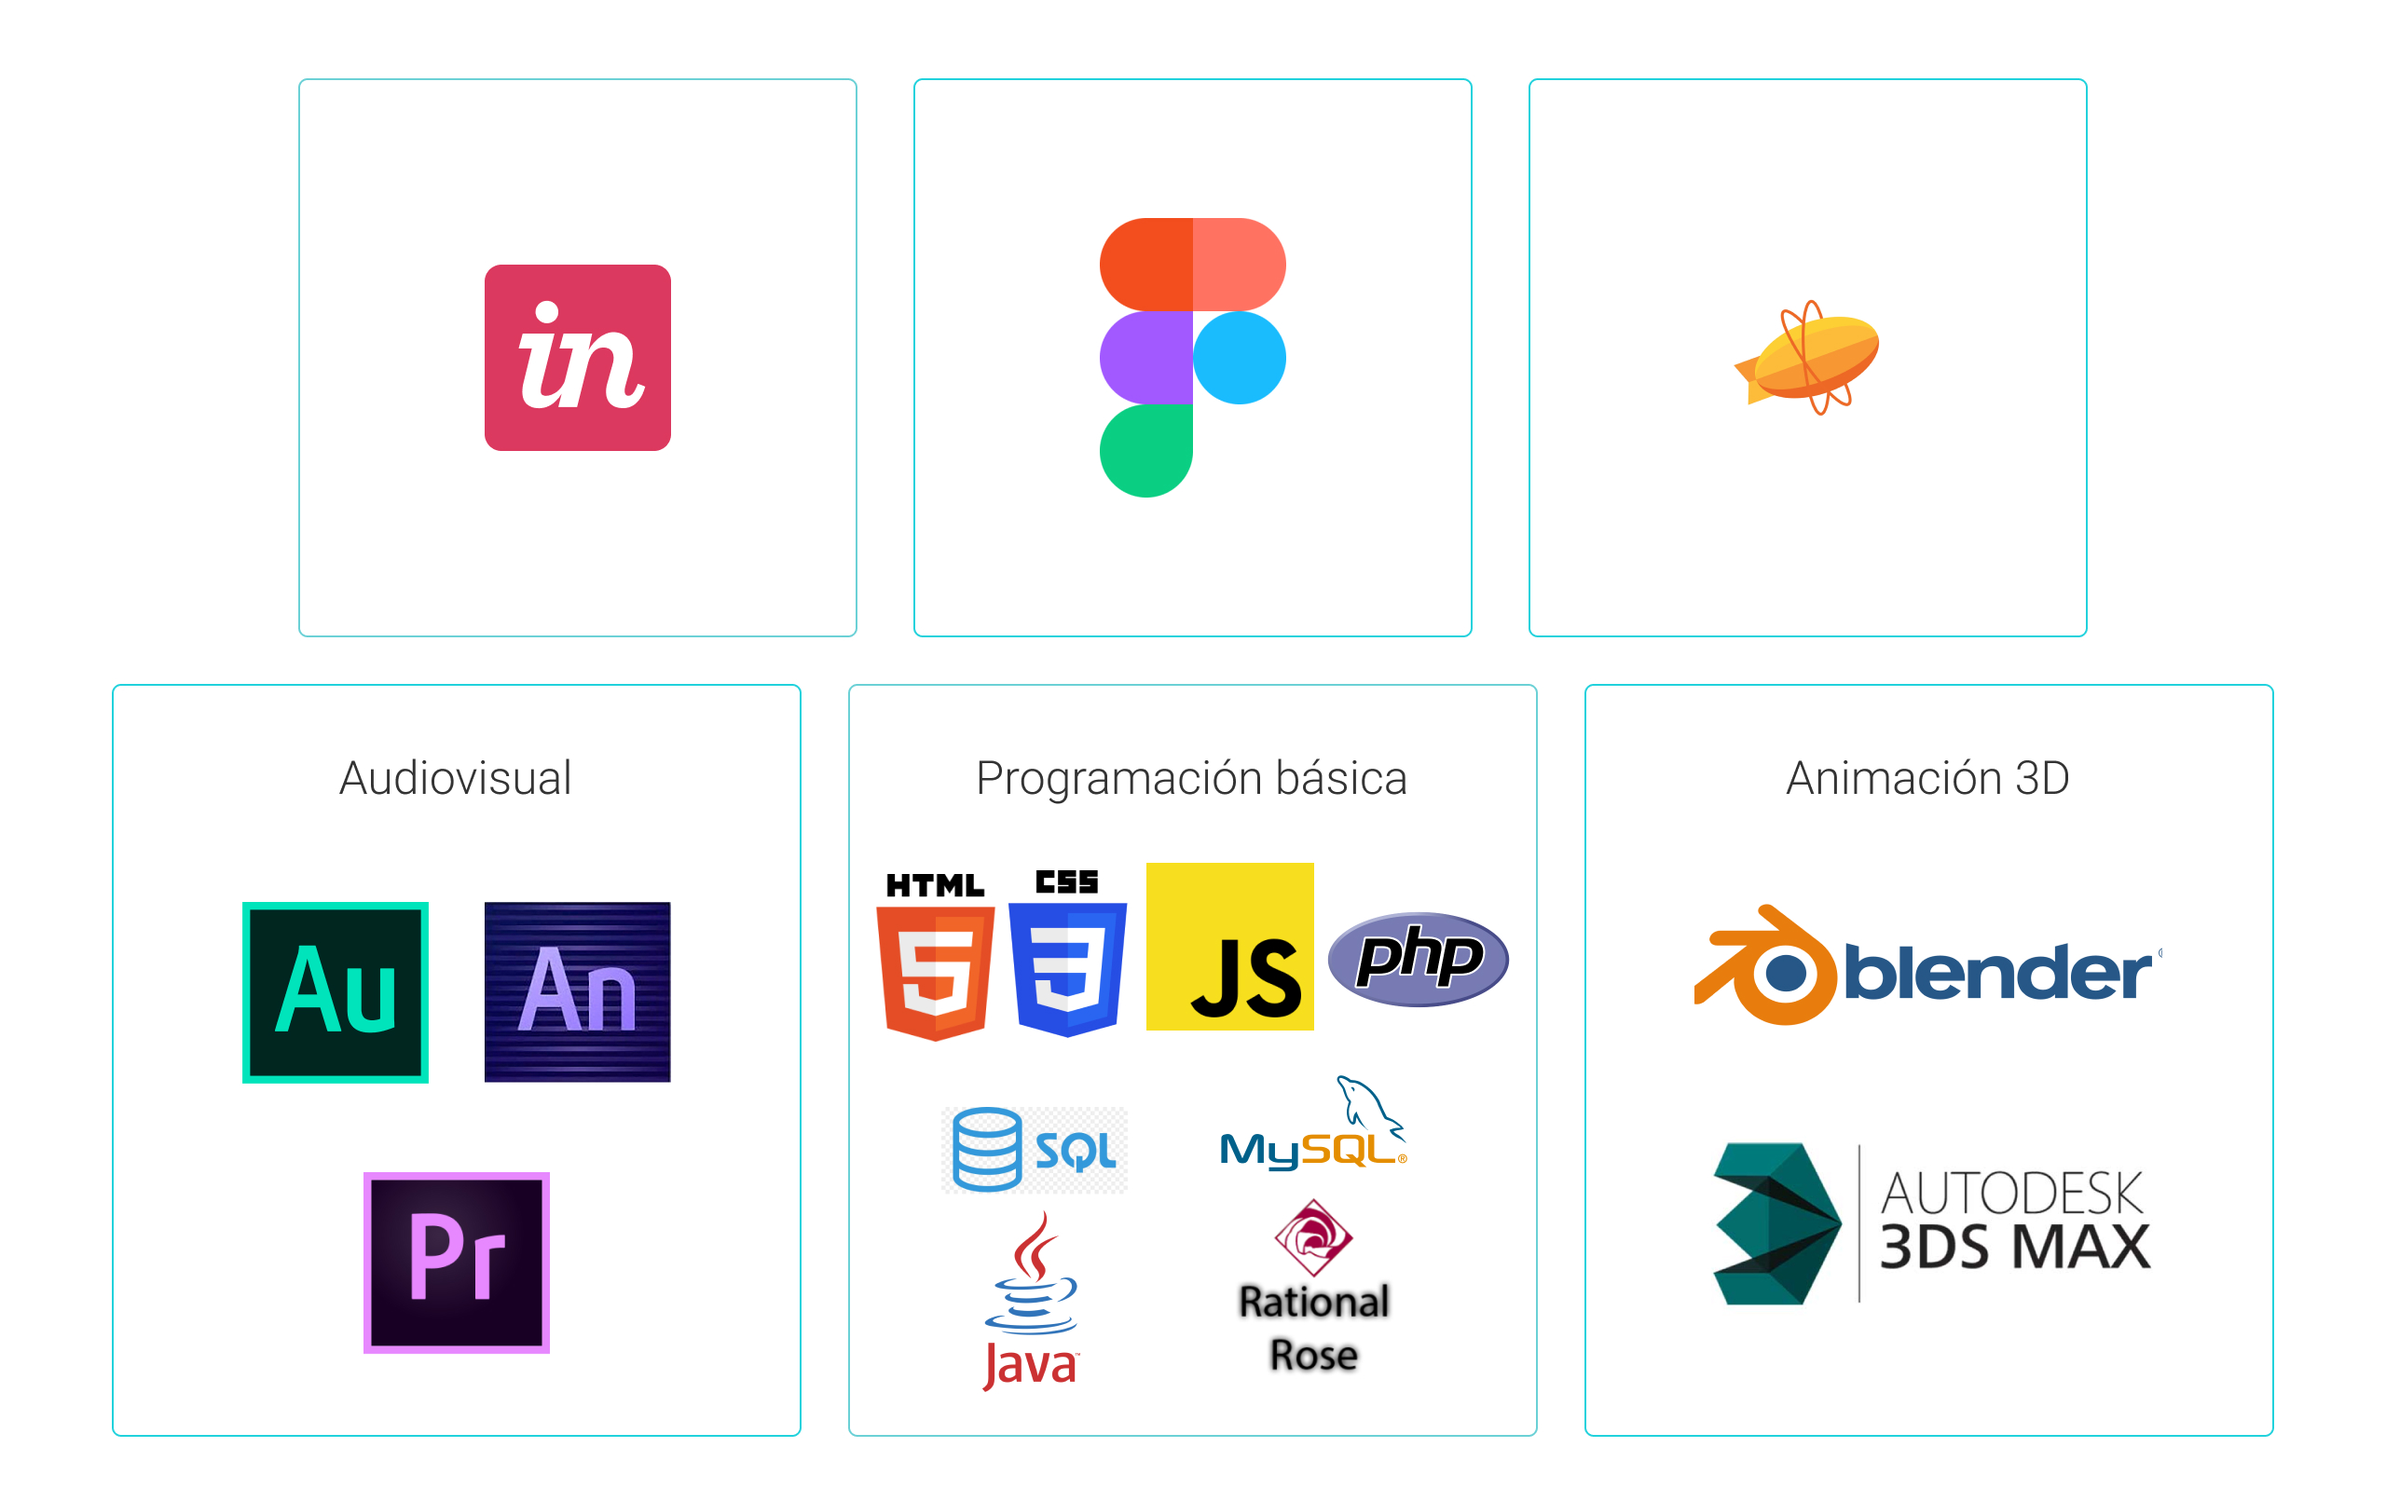
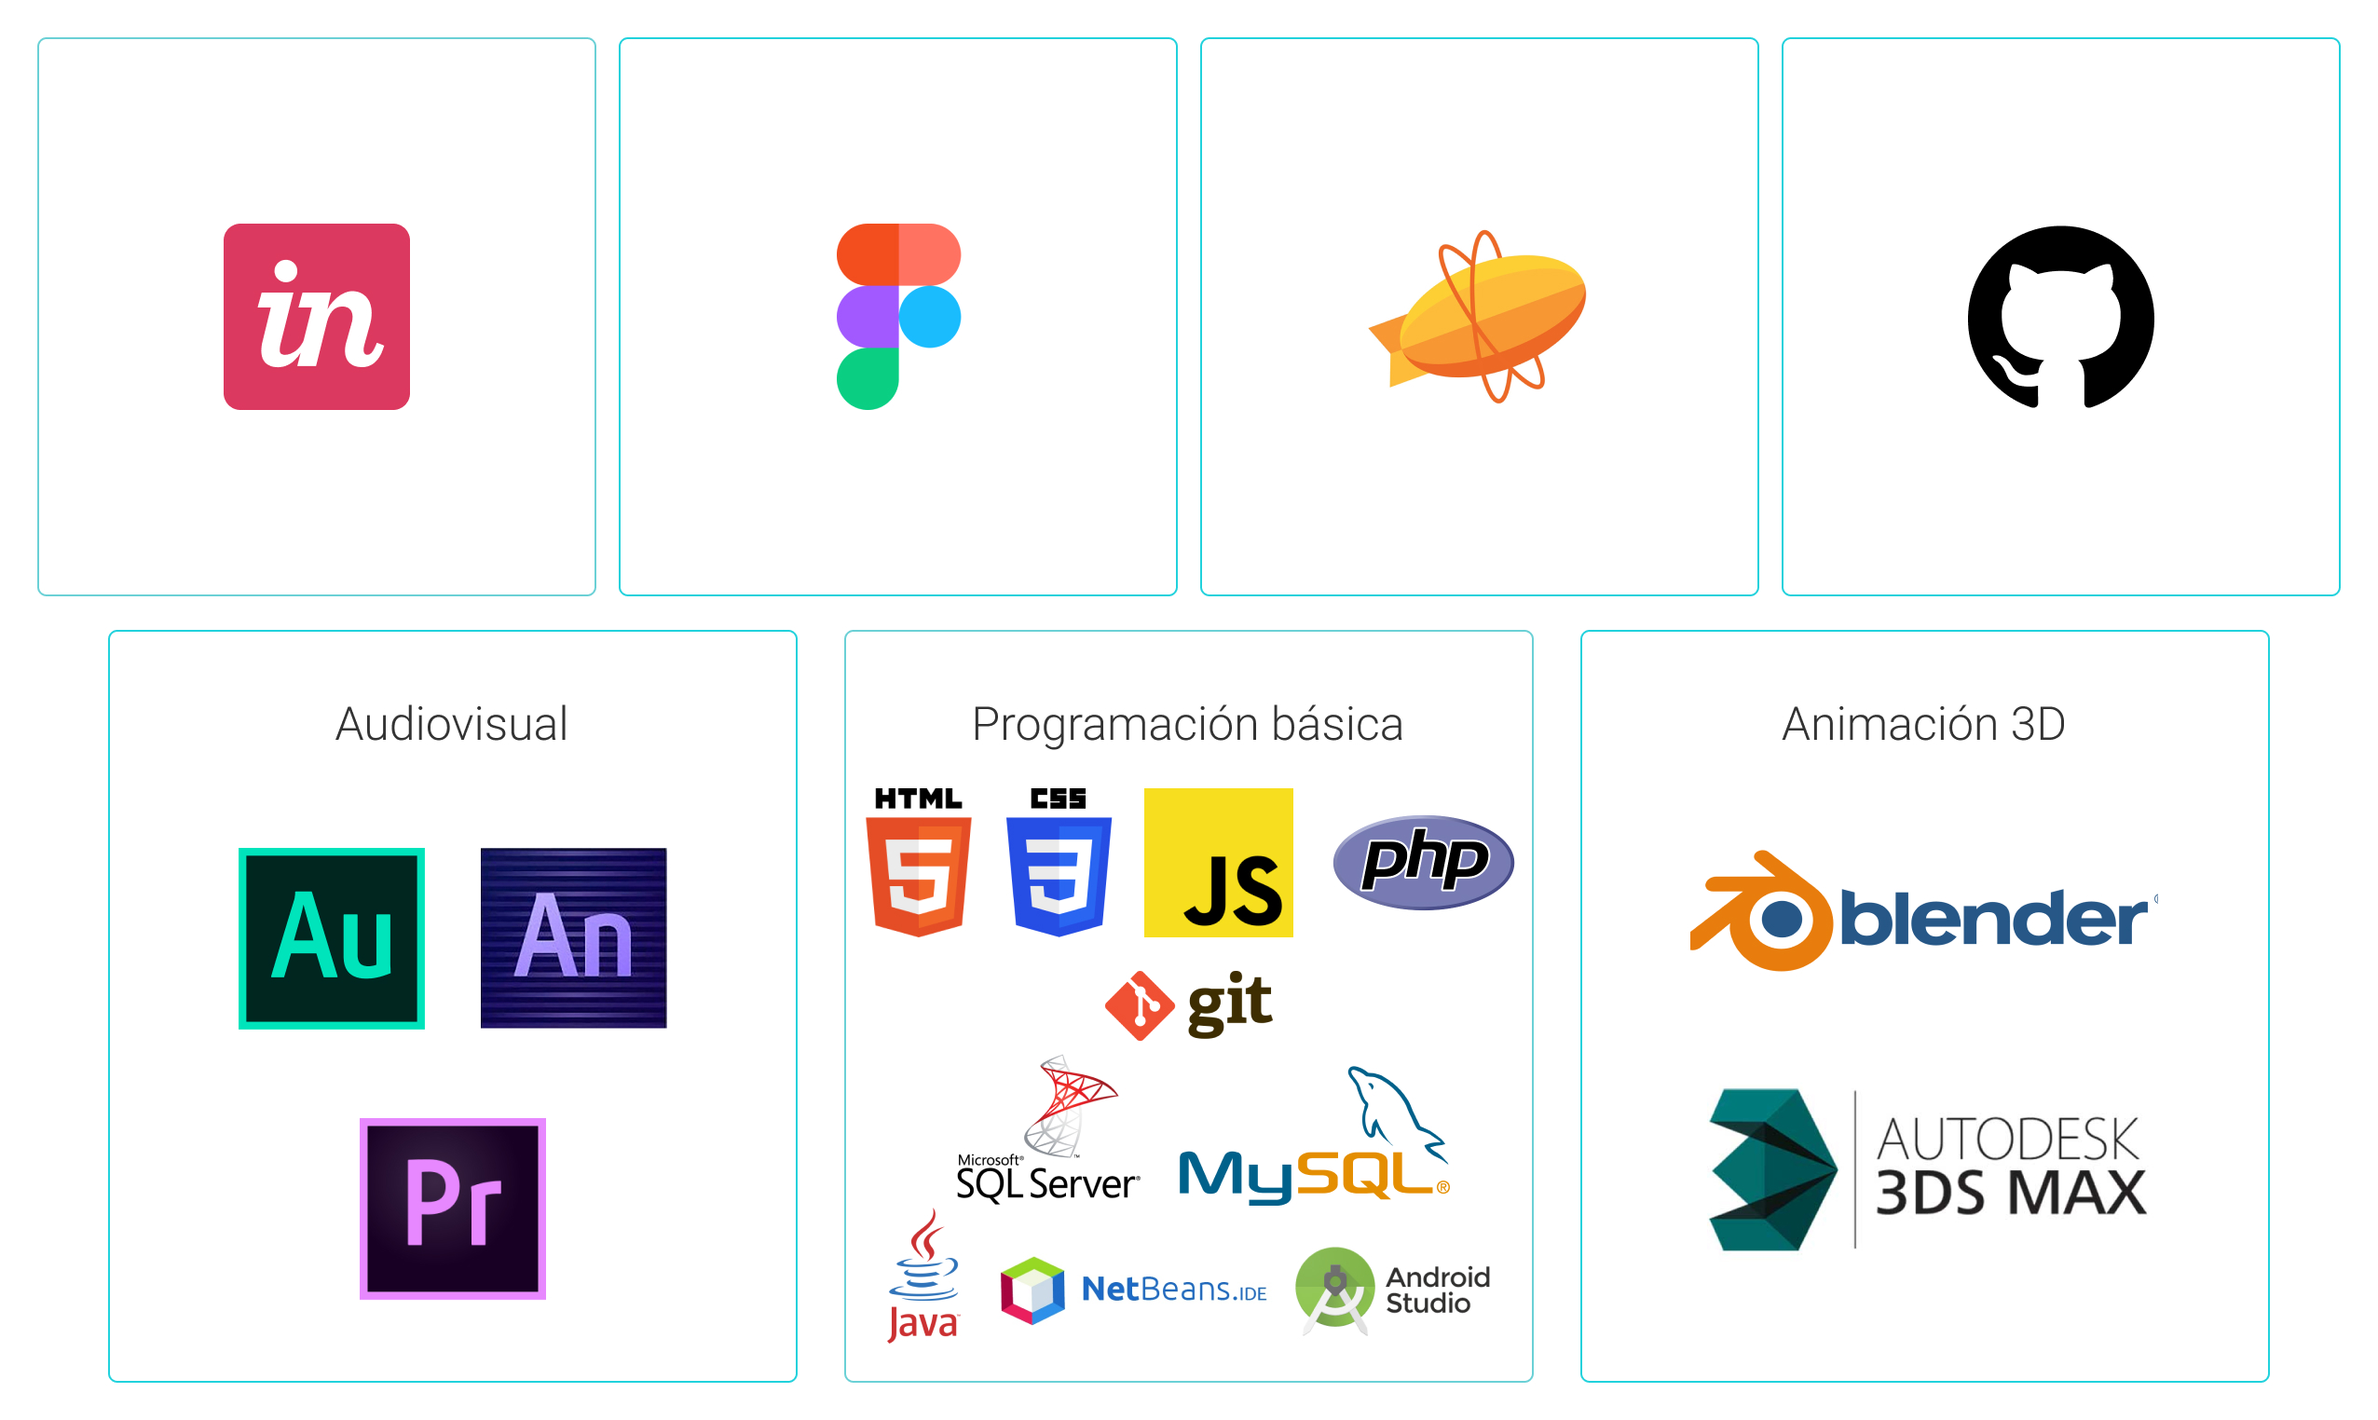
Agregue mis habilidades y mejore herramientas, contacto está más visible, agregue pestañas en el menú

diff --git a/index.html b/index.html
@@ -54,6 +54,8 @@
                     <ul>
                         <li><a href="#projects">Proyectos</a></li>
                         <li><a href="#" data-toggle="modal" data-target="#about-me-modal">Sobre mí</a></li>
+                        <li><a href="#habilidades">Habilidades</a></li>
+                        <li><a href="#contactame">Contacto</a></li>
                         <li><a href="download/GianellaVargasQuispe.pdf" download>Descargar CV</a></li>
                     </ul>
                 </div>
@@ -81,6 +83,8 @@
                 <ul>
                     <li><a href="#projects">Proyectos</a></li>
                     <li><a href="#" data-toggle="modal" data-target="#about-me-modal">Sobre mí</a></li>
+                    <li><a href="#habilidades">Habilidades</a></li>
+                    <li><a href="#herramientas">Herramientas</a></li>
                     <li><a href="download/GianellaVargasQuispe.pdf" download>Descargar CV</a></li>
                 </ul>
             </div>
@@ -202,66 +206,106 @@
                         </div>
                     </a>
                 </div>
-                
             </div>
-            <div class="margin-box">
-                <h4>Habilidades</h4>
+            <div class="margin-box" id="habilidades">
+                <h3>Habilidades</h3>
             </div>
-            <div class="margin-box">
-                <div class="img-box">
-                    <img src="media/projects/Habilidades-blandas.jpg" alt="">
-                </div>
+            <div class="col-sm-6 col-xs-12 project-item mob-apps">
+                <a class="project">
+                    <div class="project-img">
+                        <img src="media/projects/Habilidades-blandas1.jpg" alt="">
+                    </div>
+                </a>
             </div>
-            <div class="margin-box">
-                <h4>Herramientas</h4>
+            <div class="col-sm-6 col-xs-12 project-item mob-apps">
+                <a class="project">
+                    <div class="project-img">
+                        <img src="media/projects/Habilidades-blandas2.jpg" alt="">
+                    </div>
+                </a>
+            </div>
+            <div class="col-sm-6 col-xs-12 project-item mob-apps">
+                <a class="project">
+                    <div class="project-img">
+                        <img src="media/projects/Habilidades-blandas3.jpg" alt="">
+                    </div>
+                </a>
+            </div>
+            <div class="col-sm-6 col-xs-12 project-item mob-apps">
+                <a class="project">
+                    <div class="project-img">
+                        <img src="media/projects/Habilidades-blandas4.jpg" alt="">
+                    </div>
+                </a>
+            </div>
+            
+            <div class="margin-box" id="herramientas">
+                <h3>Herramientas</h3>
             </div>
             <div class="margin-box">
                 <div class="img-box">
                     <img src="media/projects/Habilidades-tecnicas.jpg" alt="">
                 </div>
             </div>
+            <!-- <div class="col-sm-12 col-xs-12 project-item mob-apps">
+                <a class="project">
+                    <div class="project-img">
+                        <img src="media/projects/Habilidades-tecnicas.jpg" alt="">
+                    </div>
+                </a>
+            </div> -->
         </div>
     </div>
     <div class="contacts-section section">
         <div class="container">
             <div class="row">
                 <div class="col-md-12">
-                    <div class="section-title">
+                    <div id="contactame" class="section-title">
                         <h3>Contáctame</h3>
                     </div>
                 </div>
             </div>
-            <div class="row">
-                <div class="col-md-6">
-                    <div class="opacity-box contact-text">
+            <div class="col-sm-3 col-xs-12 project-item mob-apps">
+                    <a  class="project">           
+                    <div class="project-img">
+                        <img src="media/projects/Contacto-Celular.jpg" alt="">
                     </div>
-                    <div class="about-me-info">
-                        <p class="info-row">
-                            <span class="span-title">Celular</span>
-                            <span class="opacity-box">
-                                <a href="#">960916383</a>
-                            </span>
-                        </p>
-                        <p class="info-row">
-                            <span class="span-title">Email</span>
-                            <span class="opacity-box">
-                                <a href="#">vargasquispe.gianella@gmail.com</a>
-                            </span>
-                        </p>
-                        <p class="info-row">
-                            <span class="span-title">Social</span>
-                            <span>
-                                <a target="_blank" href="https://www.linkedin.com/in/gianella-vargas-quispe-035103176/" class="fa fonts-icons mdi mdi-linkedin"></a>
-                                <a target="_blank" href="https://dribbble.com/Giane" class="fa fonts-icons mdi mdi-dribbble"></a>
-                                <a target="_blank" href="https://www.behance.net/gianellvargas" class="fa fonts-icons mdi mdi-behance"></a>
-                                <a target="_blank" href="https://twitter.com/Gianell94465037" class="fa fonts-icons mdi mdi-twitter"></a>
-                                <a target="_blank" href="https://www.instagram.com/gianella_lisbeth/?hl=es-la" class="fa fonts-icons mdi mdi-instagram"></a>
-                            </span>
-                        </p>
+                    <div class="project-name">
+                        <h5>960 916 383</h5>
                     </div>
-                </div>
+                </a>
             </div>
-        </div>
+            <div class="col-sm-3 col-xs-12 project-item mob-apps">
+                <a href="https://mail.google.com/mail/u/1/?tab=km#inbox" class="project">
+                    <div class="project-img">
+                        <img src="media/projects/Contactos-Gmail.jpg" alt="">
+                    </div>
+                    <div class="project-name">
+                        <h5>vargasquispe.gianella</h5>
+                    </div>
+                </a>
+            </div>
+            <div class="col-sm-3 col-xs-12 project-item mob-apps">
+                <a href="https://www.linkedin.com/in/gianella-vargas-quispe-035103176/" class="project">
+                    <div class="project-img">
+                        <img src="media/projects/Contacto-Linkedin.jpg" alt="">
+                    </div>
+                    <div class="project-name">
+                        <h5>Gianella Vargas Quispe</h5>
+                    </div>
+                </a>
+            </div>
+            <div class="col-sm-3 col-xs-12 project-item mob-apps">
+                <a href="https://github.com/GianellaVQ" class="project">
+                    <div class="project-img">
+                        <img src="media/projects/Contacto-GitHub.jpg" alt="">
+                    </div>
+                    <div class="project-name">
+                        <h5>GianellaVQ</h5>
+                    </div>
+                </a>
+            </div>
+        </div>     
     </div>
 </div>
 
